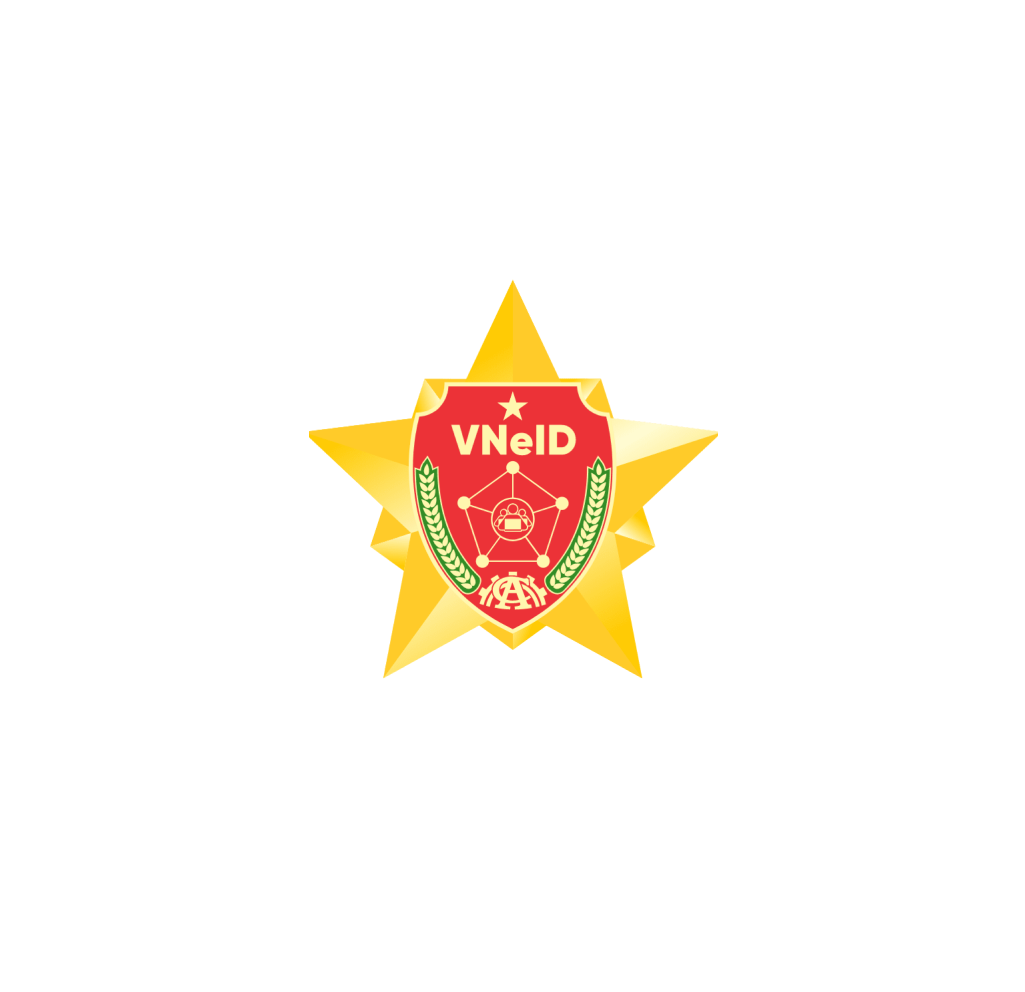
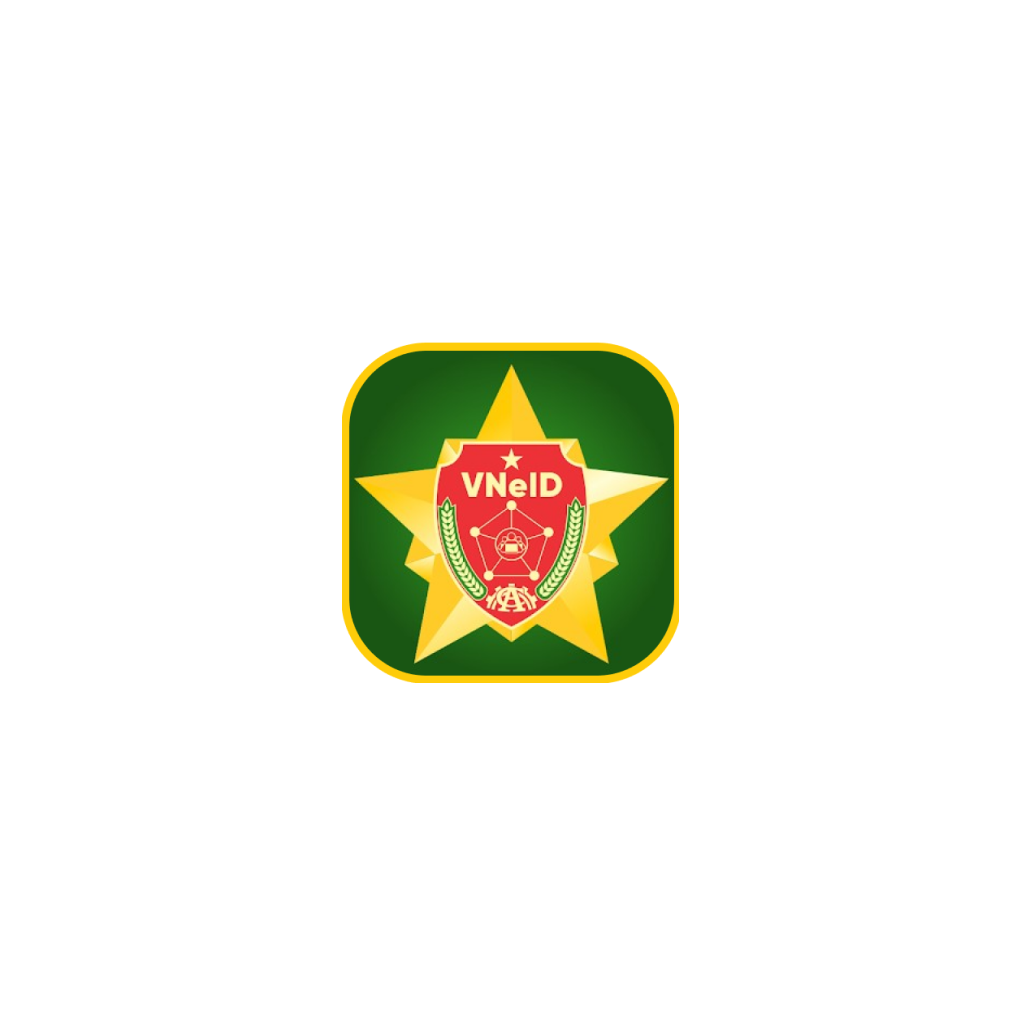
update

Changed region(s): [[0.2812, 0.2812, 0.7188, 0.6875]]

diff --git a/src/components/ScreenWithOverlap/ScreenWithOverlap.tsx b/src/components/ScreenWithOverlap/ScreenWithOverlap.tsx
@@ -12,15 +12,15 @@ interface SlideItem {
 
 const slides: SlideItem[] = [
   {
-    source: "https://d1hjkbq40fs2x4.cloudfront.net/2017-08-21/files/landscape-photography_1645.jpg",
+    source: "home_cthtdbll",
     title: "Định danh công dân trên môi trường kỹ thuật số",
   },
   { 
-    source: "https://d1hjkbq40fs2x4.cloudfront.net/2017-08-21/files/landscape-photography_1645.jpg", 
+    source: "home_vneid_add", 
     title: "Thay thế các giấy tờ truyền thống" 
   },
   {
-    source: "https://d1hjkbq40fs2x4.cloudfront.net/2017-08-21/files/landscape-photography_1645.jpg", 
+    source: "home_vneid_add", 
     title: "Cung cấp các tiện ích phát triển công dân số, chính phủ số, xã hội số",
   },
 ];

diff --git a/src/components/Images/ImgReq.tsx b/src/components/Images/ImgReq.tsx
@@ -155,8 +155,8 @@ export const imageSources: { [key: string]: ImageSourcePropType } = {
     home_banner3: require("../../assets/images/src_assets_images_home_banner3.jpg"),
     home_cbld: require("../../assets/images/cbld.jpg"),
     home_header: require("../../assets/images/src_assets_images_vnp_header_vector_wave.png"),
-    home_cthtdbll: require("../../assets/images/cthtdbll.jpg"),
-    home_vneid_add: require("../../assets/images/vneid_add.png"),
+    home_cthtdbll: require("../../assets/images/cthtdbll.png"),
+    home_vneid_add: require("../../assets/images/ctkc.png"),
     home_tbt_cuba: require("../../assets/images/tbt-cuba.jpg"),
     warning: require("../../assets/images/icon-warning.png"),
 
